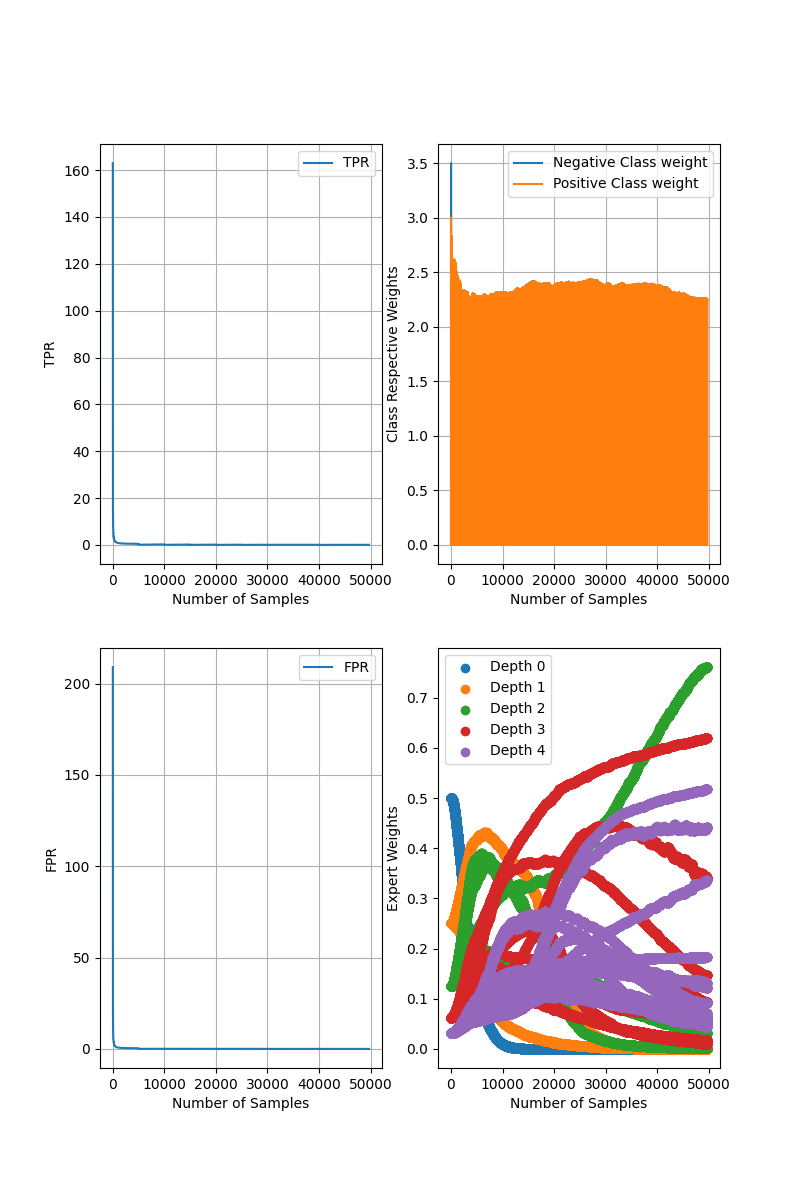
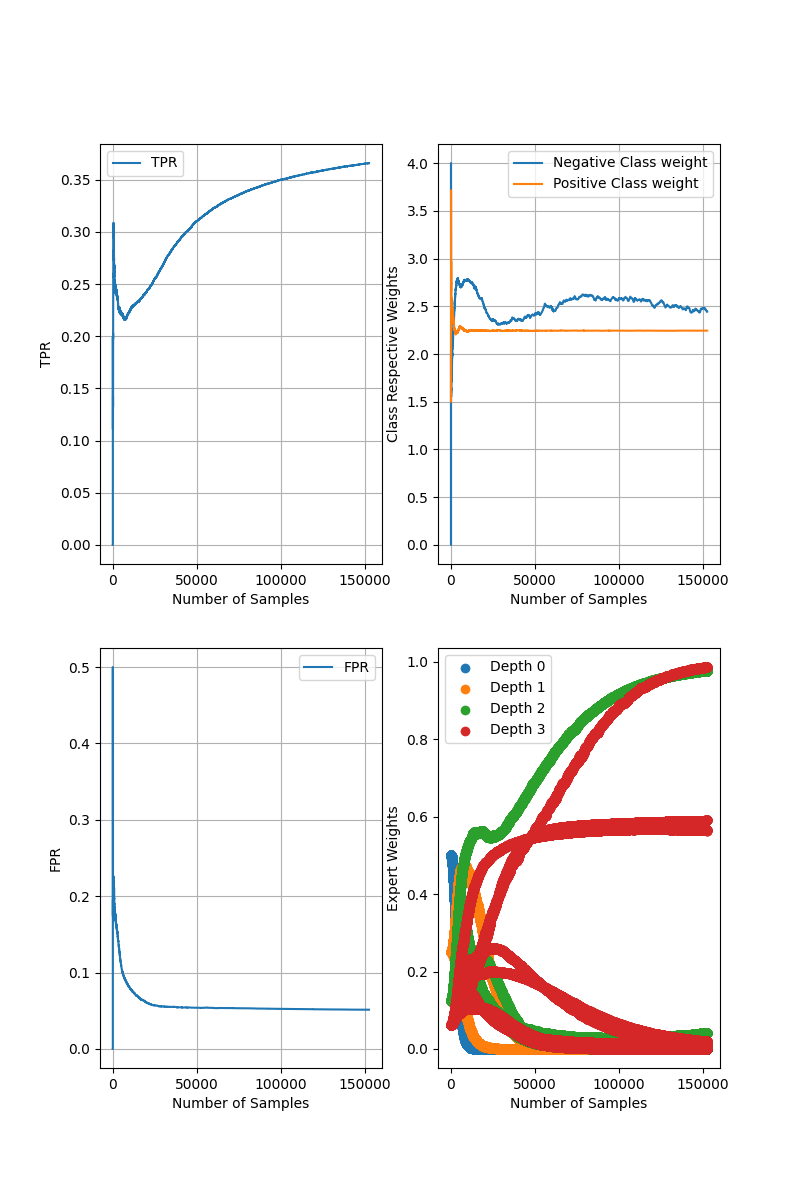
only increased sample counter for class weight at the exploration state

diff --git a/tree_olnp/tree_olnp.py b/tree_olnp/tree_olnp.py
@@ -141,10 +141,8 @@ class tree_olnp:
         fpr_test_array = np.zeros((n_samples))
         gamma_array = np.zeros((n_samples))
 
-        transient_number_of_positive_samples_explore = 1
-        transient_number_of_negative_samples_explore = 1
-        transient_number_of_positive_samples_exploit = 1
-        transient_number_of_negative_samples_exploit = 1
+        transient_number_of_positive_samples = 1
+        transient_number_of_negative_samples = 1
 
         # initiate weights
         neg_class_weight_train_array[0] = 2*gamma
@@ -253,19 +251,13 @@ class tree_olnp:
             # save sample mu
             sample_mu[sample_index, :] = mu_tree
 
-            # save tp and fp
+            # sqave and update, tp, fp and number of samples
             if yt == 1:
                 if yt_predict == 1:
                     tp = tp+1
             else:
                 if yt_predict == 1:
                     fp = fp+1
-
-            tpr_train_array[sample_index] = tp/(transient_number_of_positive_samples_explore+transient_number_of_positive_samples_exploit)
-            fpr_train_array[sample_index] = fp/(transient_number_of_negative_samples_explore+transient_number_of_negative_samples_exploit)
-
-            # save gamma
-            gamma_array[sample_index] = gamma
 
             # only related to class weight learning
 
@@ -295,10 +287,17 @@ class tree_olnp:
                 # y(t), calculate mu(t)
                 if yt == 1:
                     # mu(t) uses gamma(t-1), n_plus(t-1), n_minus(t-1)
-                    mu = (transient_number_of_positive_samples_explore + transient_number_of_negative_samples_explore)/transient_number_of_positive_samples_explore
+                    mu = (transient_number_of_positive_samples + transient_number_of_negative_samples)/transient_number_of_positive_samples
                 else:
                     # mu(t) uses gamma(t-1), n_plus(t-1), n_minus(t-1)
-                    mu = gamma*(transient_number_of_positive_samples_explore + transient_number_of_negative_samples_explore)/transient_number_of_negative_samples_explore
+                    mu = gamma*(transient_number_of_positive_samples + transient_number_of_negative_samples)/transient_number_of_negative_samples
+
+            # save train tp fp
+            tpr_train_array[sample_index] = tp/transient_number_of_positive_samples
+            fpr_train_array[sample_index] = fp/transient_number_of_negative_samples
+
+            # save train gamma
+            gamma_array[sample_index] = gamma
 
             # save class cost
             if yt == 1:
@@ -310,7 +309,7 @@ class tree_olnp:
                 # save class costs
                 neg_class_weight_train_array[sample_index] = mu
                 if sample_index>1:
-                    pos_class_weight_train_array[sample_index] = pos_class_weight_train_array[i-1]
+                    pos_class_weight_train_array[sample_index] = pos_class_weight_train_array[sample_index-1]
 
             if is_exploit:
                 # only related to perceptron learning
@@ -339,31 +338,23 @@ class tree_olnp:
                     # update w and b
                     w[:, dark_node_index] = (1-eta*Lambda)*w[:, dark_node_index]-eta*mu*dloss_dw
                     b[dark_node_index] = b[dark_node_index]-eta*mu*dloss_db
-                    
-                # y(t)
-                if yt == 1:
-                    # calculate n_plus(t)
-                    transient_number_of_positive_samples_exploit += 1
-                else:
-                    # calculate n_minus(t)
-                    transient_number_of_negative_samples_exploit += 1
 
             if is_explore:
                 # y(t)
                 if yt == 1:
                     # calculate n_plus(t)
-                    transient_number_of_positive_samples_explore += 1
+                    transient_number_of_positive_samples += 1
                 else:
                     # calculate n_minus(t)
-                    transient_number_of_negative_samples_explore += 1
+                    transient_number_of_negative_samples += 1
                     # calculate gamma(t)
                     gamma = gamma*(1+beta*(estimated_FPR - tfpr))
             
             # update learning rate of perceptron
-            eta = eta_init/(1+Lambda*(transient_number_of_positive_samples_exploit + transient_number_of_negative_samples_exploit))
+            eta = eta_init/(1+Lambda*(transient_number_of_positive_samples + transient_number_of_negative_samples))
 
             # update learning rate for class weights
-            beta = beta_init/(1+Lambda*(transient_number_of_positive_samples_explore + transient_number_of_negative_samples_explore))
+            beta = beta_init/(1+Lambda*(transient_number_of_positive_samples + transient_number_of_negative_samples))
 
             # update sample index
             sample_index = sample_index+1

diff --git a/main_active_learning.py b/main_active_learning.py
@@ -10,11 +10,11 @@ from tree_olnp.tree_olnp import tree_olnp
 # Target False Alarm
 # NP framework aims to maximize the detection power while upper bounding the false alarm rate
 # target false alarm rate should be determined by the user
-target_FPR = 0.1
+target_FPR = 0.2
 
 # every 5000 sample, calculate TPR and FPR of the transient model using test set
 # this application is specific to active learning to better show performance of the model
-test_freq = 1000
+test_freq = 500
 
 # main 
 # np-nn works for 1,-1 classification
@@ -38,8 +38,8 @@ TreeOlnp = tree_olnp(
     projection_type = 'iterative_PCA', 
     tree_depth=5, 
     active_learning=True, 
-    exploration_prob=0.2, 
-    uncertainity_threshold=0.85)
+    exploration_prob=0.3, 
+    uncertainity_threshold=0.95)
 
 # training with test
 TreeOlnp.fit(X_train, y_train, X_test=X_test, y_test=y_test, test_freq=test_freq)
